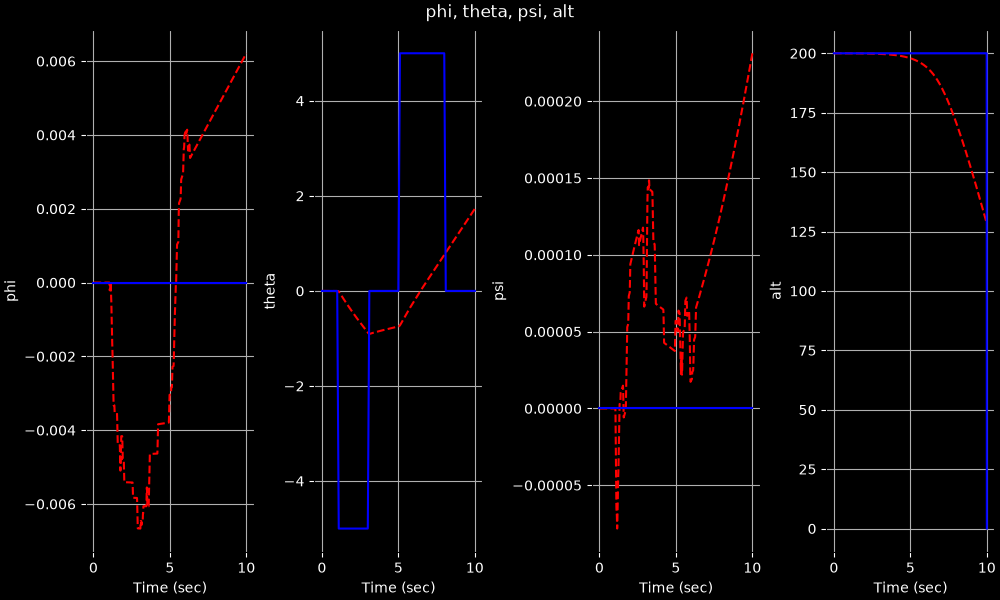
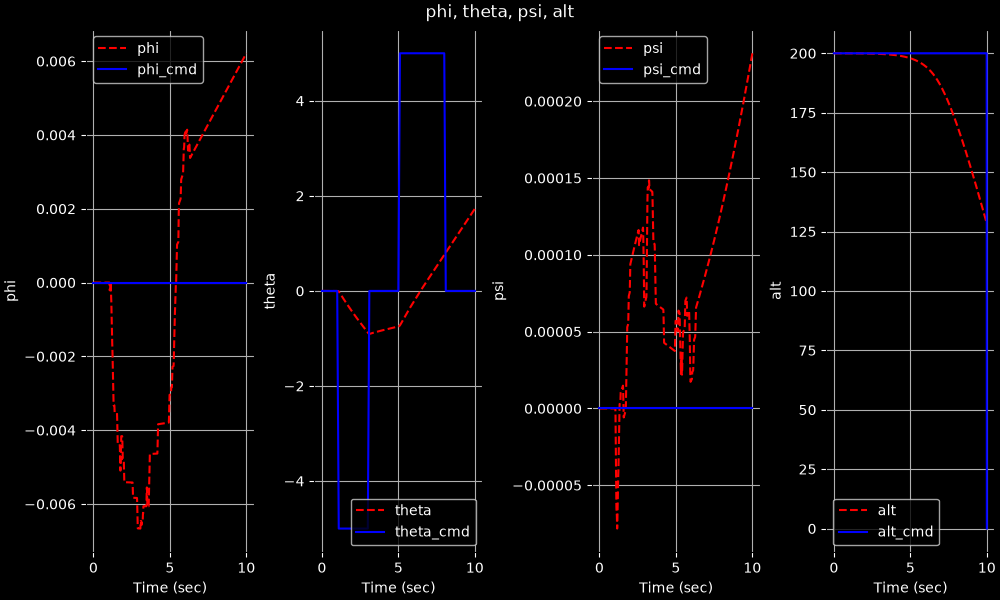
added legend to plots

diff --git a/Aerospace/control/main.py b/Aerospace/control/main.py
@@ -164,6 +164,7 @@ def main():
     axes[0].grid(True)
     axes[0].set_facecolor('black')
     axes[0].tick_params(colors='white')
+    axes[0].legend(facecolor='black', labelcolor='white')    
 
     axes[1].plot(t_plant, x[7,:]*d2r, label='theta', color='red', linestyle='--')
     axes[1].plot(t_plant, v_cmd[1,:]*d2r, label='theta_cmd', color='blue')
@@ -172,6 +173,7 @@ def main():
     axes[1].grid(True)
     axes[1].set_facecolor('black')
     axes[1].tick_params(colors='white')
+    axes[1].legend(facecolor='black', labelcolor='white')
 
     axes[2].plot(t_plant, x[8,:]*d2r, label='psi', color='red', linestyle='--')
     axes[2].plot(t_plant, v_cmd[2,:]*d2r, label='psi_cmd', color='blue')
@@ -180,6 +182,7 @@ def main():
     axes[2].grid(True)
     axes[2].set_facecolor('black')
     axes[2].tick_params(colors='white')
+    axes[2].legend(facecolor='black', labelcolor='white')
 
     axes[3].plot(t_plant, -x[11,:], label='alt', color='red', linestyle='--')
     axes[3].plot(t_plant, v_cmd[3,:], label='alt_cmd', color='blue')
@@ -188,6 +191,7 @@ def main():
     axes[3].grid(True)
     axes[3].set_facecolor('black')
     axes[3].tick_params(colors='white')
+    axes[3].legend(facecolor='black', labelcolor='white')
 
     plt.savefig(f'savefig/{simulation_test}_{test_count}.png')
 
